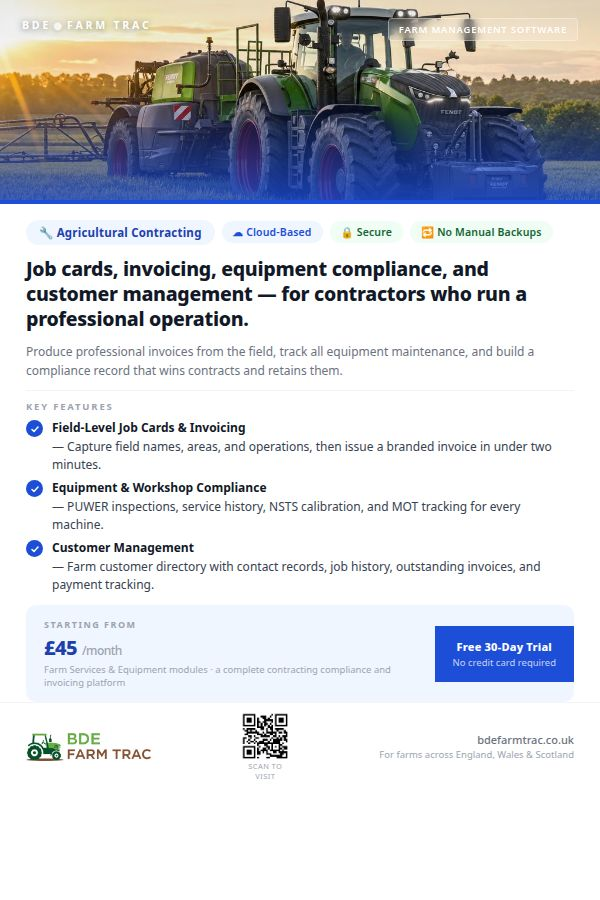
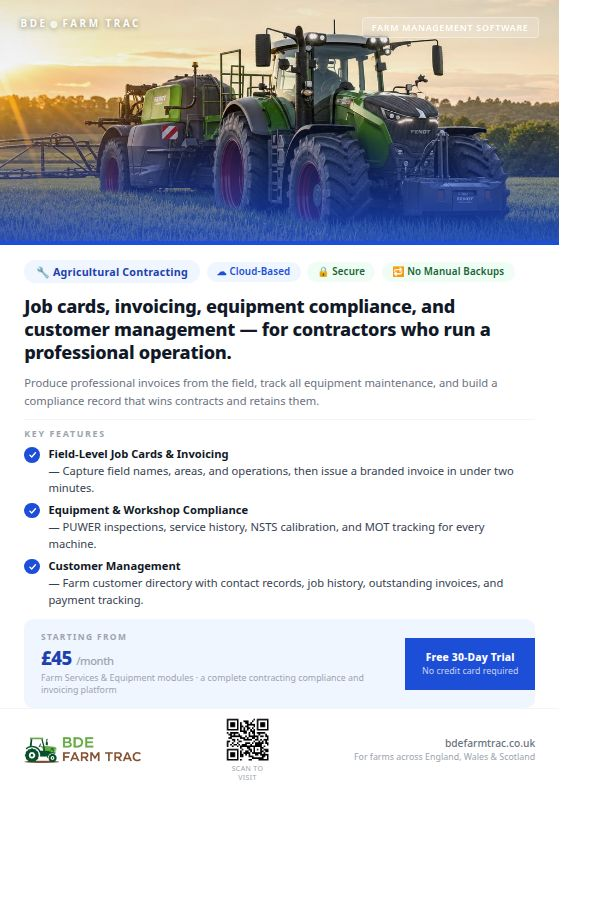
Update v2 leaflet content and associated screenshots
Replit-Commit-Author: Agent

diff --git a/artifacts/website/public/leaflets/arable-v2.html b/artifacts/website/public/leaflets/arable-v2.html
@@ -5,9 +5,9 @@
     <meta name="viewport" content="width=600">
     <style>
     *{box-sizing:border-box;margin:0;padding:0}
-    html{width:600px;height:210mm;overflow:hidden}body{width:600px;height:100%;display:flex;flex-direction:column;overflow:hidden;background:#fff;font-family:-apple-system,'Helvetica Neue',Arial,sans-serif;-webkit-font-smoothing:antialiased}
-    .hero{position:relative;width:600px;height:275px;overflow:hidden}
-    .hero img{width:100%;height:100%;object-fit:cover;object-position:center}
+    html{width:148mm;height:210mm;overflow:hidden}body{width:600px;height:851px;zoom:0.9323;overflow:hidden;display:flex;flex-direction:column;margin:0;padding:0}
+    .hero{position:relative;width:600px;flex:1;min-height:200px;overflow:hidden}
+    .hero img{width:100%;height:100%;object-fit:cover;object-position:center;position:absolute;inset:0}
     .hero-grad{position:absolute;inset:0;background:linear-gradient(to bottom,rgba(0,0,0,.08) 0%,rgba(0,0,0,.02) 45%,#92400ECC 100%)}
     .wordmark{position:absolute;top:18px;left:22px;color:#fff;font-size:10.5px;font-weight:700;letter-spacing:2.8px;text-transform:uppercase;text-shadow:0 1px 6px rgba(0,0,0,.5)}
     .wordmark .dot{opacity:.55;font-weight:300;margin:0 2px}
@@ -32,7 +32,7 @@
     .pricing-trial{background:#92400E;padding:13px 18px;text-align:center;min-width:130px}
     .pricing-trial-head{font-size:11px;font-weight:800;color:#fff;letter-spacing:.2px;margin-bottom:2px}
     .pricing-trial-sub{font-size:9.5px;color:rgba(255,255,255,.75)}
-    .footer{margin-top:auto;border-top:1px solid #F3F4F6;padding:9px 26px 12px;display:flex;align-items:center;justify-content:space-between}
+    .footer{margin-top:0;border-top:1px solid #F3F4F6;padding:9px 26px 12px;display:flex;align-items:center;justify-content:space-between}
     .footer-logo{font-size:10.5px;font-weight:800;color:#2D6A2E;letter-spacing:1.5px;text-transform:uppercase}
     .footer-right{text-align:right}
     .footer-url{font-size:11px;color:#6B7280;font-weight:500}

diff --git a/artifacts/website/public/leaflets/beef-dairy-v2.html b/artifacts/website/public/leaflets/beef-dairy-v2.html
@@ -5,9 +5,9 @@
     <meta name="viewport" content="width=600">
     <style>
     *{box-sizing:border-box;margin:0;padding:0}
-    html{width:600px;height:210mm;overflow:hidden}body{width:600px;height:100%;display:flex;flex-direction:column;overflow:hidden;background:#fff;font-family:-apple-system,'Helvetica Neue',Arial,sans-serif;-webkit-font-smoothing:antialiased}
-    .hero{position:relative;width:600px;height:275px;overflow:hidden}
-    .hero img{width:100%;height:100%;object-fit:cover;object-position:center}
+    html{width:148mm;height:210mm;overflow:hidden}body{width:600px;height:851px;zoom:0.9323;overflow:hidden;display:flex;flex-direction:column;margin:0;padding:0}
+    .hero{position:relative;width:600px;flex:1;min-height:200px;overflow:hidden}
+    .hero img{width:100%;height:100%;object-fit:cover;object-position:center;position:absolute;inset:0}
     .hero-grad{position:absolute;inset:0;background:linear-gradient(to bottom,rgba(0,0,0,.08) 0%,rgba(0,0,0,.02) 45%,#B91C1CCC 100%)}
     .wordmark{position:absolute;top:18px;left:22px;color:#fff;font-size:10.5px;font-weight:700;letter-spacing:2.8px;text-transform:uppercase;text-shadow:0 1px 6px rgba(0,0,0,.5)}
     .wordmark .dot{opacity:.55;font-weight:300;margin:0 2px}
@@ -32,7 +32,7 @@
     .pricing-trial{background:#B91C1C;padding:13px 18px;text-align:center;min-width:130px}
     .pricing-trial-head{font-size:11px;font-weight:800;color:#fff;letter-spacing:.2px;margin-bottom:2px}
     .pricing-trial-sub{font-size:9.5px;color:rgba(255,255,255,.75)}
-    .footer{margin-top:auto;border-top:1px solid #F3F4F6;padding:9px 26px 12px;display:flex;align-items:center;justify-content:space-between}
+    .footer{margin-top:0;border-top:1px solid #F3F4F6;padding:9px 26px 12px;display:flex;align-items:center;justify-content:space-between}
     .footer-logo{font-size:10.5px;font-weight:800;color:#2D6A2E;letter-spacing:1.5px;text-transform:uppercase}
     .footer-right{text-align:right}
     .footer-url{font-size:11px;color:#6B7280;font-weight:500}

diff --git a/artifacts/website/public/leaflets/contracting-v2.html b/artifacts/website/public/leaflets/contracting-v2.html
@@ -5,9 +5,9 @@
     <meta name="viewport" content="width=600">
     <style>
     *{box-sizing:border-box;margin:0;padding:0}
-    html{width:600px;height:210mm;overflow:hidden}body{width:600px;height:100%;display:flex;flex-direction:column;overflow:hidden;background:#fff;font-family:-apple-system,'Helvetica Neue',Arial,sans-serif;-webkit-font-smoothing:antialiased}
-    .hero{position:relative;width:600px;height:275px;overflow:hidden}
-    .hero img{width:100%;height:100%;object-fit:cover;object-position:center}
+    html{width:148mm;height:210mm;overflow:hidden}body{width:600px;height:851px;zoom:0.9323;overflow:hidden;display:flex;flex-direction:column;margin:0;padding:0}
+    .hero{position:relative;width:600px;flex:1;min-height:200px;overflow:hidden}
+    .hero img{width:100%;height:100%;object-fit:cover;object-position:center;position:absolute;inset:0}
     .hero-grad{position:absolute;inset:0;background:linear-gradient(to bottom,rgba(0,0,0,.08) 0%,rgba(0,0,0,.02) 45%,#1D4ED8CC 100%)}
     .wordmark{position:absolute;top:18px;left:22px;color:#fff;font-size:10.5px;font-weight:700;letter-spacing:2.8px;text-transform:uppercase;text-shadow:0 1px 6px rgba(0,0,0,.5)}
     .wordmark .dot{opacity:.55;font-weight:300;margin:0 2px}
@@ -32,7 +32,7 @@
     .pricing-trial{background:#1D4ED8;padding:13px 18px;text-align:center;min-width:130px}
     .pricing-trial-head{font-size:11px;font-weight:800;color:#fff;letter-spacing:.2px;margin-bottom:2px}
     .pricing-trial-sub{font-size:9.5px;color:rgba(255,255,255,.75)}
-    .footer{margin-top:auto;border-top:1px solid #F3F4F6;padding:9px 26px 12px;display:flex;align-items:center;justify-content:space-between}
+    .footer{margin-top:0;border-top:1px solid #F3F4F6;padding:9px 26px 12px;display:flex;align-items:center;justify-content:space-between}
     .footer-logo{font-size:10.5px;font-weight:800;color:#2D6A2E;letter-spacing:1.5px;text-transform:uppercase}
     .footer-right{text-align:right}
     .footer-url{font-size:11px;color:#6B7280;font-weight:500}

diff --git a/artifacts/website/public/leaflets/mixed-v2.html b/artifacts/website/public/leaflets/mixed-v2.html
@@ -5,9 +5,9 @@
     <meta name="viewport" content="width=600">
     <style>
     *{box-sizing:border-box;margin:0;padding:0}
-    html{width:600px;height:210mm;overflow:hidden}body{width:600px;height:100%;display:flex;flex-direction:column;overflow:hidden;background:#fff;font-family:-apple-system,'Helvetica Neue',Arial,sans-serif;-webkit-font-smoothing:antialiased}
-    .hero{position:relative;width:600px;height:275px;overflow:hidden}
-    .hero img{width:100%;height:100%;object-fit:cover;object-position:center}
+    html{width:148mm;height:210mm;overflow:hidden}body{width:600px;height:851px;zoom:0.9323;overflow:hidden;display:flex;flex-direction:column;margin:0;padding:0}
+    .hero{position:relative;width:600px;flex:1;min-height:200px;overflow:hidden}
+    .hero img{width:100%;height:100%;object-fit:cover;object-position:center;position:absolute;inset:0}
     .hero-grad{position:absolute;inset:0;background:linear-gradient(to bottom,rgba(0,0,0,.08) 0%,rgba(0,0,0,.02) 45%,#2D6A2ECC 100%)}
     .wordmark{position:absolute;top:18px;left:22px;color:#fff;font-size:10.5px;font-weight:700;letter-spacing:2.8px;text-transform:uppercase;text-shadow:0 1px 6px rgba(0,0,0,.5)}
     .wordmark .dot{opacity:.55;font-weight:300;margin:0 2px}
@@ -32,7 +32,7 @@
     .pricing-trial{background:#2D6A2E;padding:13px 18px;text-align:center;min-width:130px}
     .pricing-trial-head{font-size:11px;font-weight:800;color:#fff;letter-spacing:.2px;margin-bottom:2px}
     .pricing-trial-sub{font-size:9.5px;color:rgba(255,255,255,.75)}
-    .footer{margin-top:auto;border-top:1px solid #F3F4F6;padding:9px 26px 12px;display:flex;align-items:center;justify-content:space-between}
+    .footer{margin-top:0;border-top:1px solid #F3F4F6;padding:9px 26px 12px;display:flex;align-items:center;justify-content:space-between}
     .footer-logo{font-size:10.5px;font-weight:800;color:#2D6A2E;letter-spacing:1.5px;text-transform:uppercase}
     .footer-right{text-align:right}
     .footer-url{font-size:11px;color:#6B7280;font-weight:500}

diff --git a/artifacts/website/public/leaflets/sheep-goat-v2.html b/artifacts/website/public/leaflets/sheep-goat-v2.html
@@ -5,9 +5,9 @@
     <meta name="viewport" content="width=600">
     <style>
     *{box-sizing:border-box;margin:0;padding:0}
-    html{width:600px;height:210mm;overflow:hidden}body{width:600px;height:100%;display:flex;flex-direction:column;overflow:hidden;background:#fff;font-family:-apple-system,'Helvetica Neue',Arial,sans-serif;-webkit-font-smoothing:antialiased}
-    .hero{position:relative;width:600px;height:275px;overflow:hidden}
-    .hero img{width:100%;height:100%;object-fit:cover;object-position:center}
+    html{width:148mm;height:210mm;overflow:hidden}body{width:600px;height:851px;zoom:0.9323;overflow:hidden;display:flex;flex-direction:column;margin:0;padding:0}
+    .hero{position:relative;width:600px;flex:1;min-height:200px;overflow:hidden}
+    .hero img{width:100%;height:100%;object-fit:cover;object-position:center;position:absolute;inset:0}
     .hero-grad{position:absolute;inset:0;background:linear-gradient(to bottom,rgba(0,0,0,.08) 0%,rgba(0,0,0,.02) 45%,#B45309CC 100%)}
     .wordmark{position:absolute;top:18px;left:22px;color:#fff;font-size:10.5px;font-weight:700;letter-spacing:2.8px;text-transform:uppercase;text-shadow:0 1px 6px rgba(0,0,0,.5)}
     .wordmark .dot{opacity:.55;font-weight:300;margin:0 2px}
@@ -32,7 +32,7 @@
     .pricing-trial{background:#B45309;padding:13px 18px;text-align:center;min-width:130px}
     .pricing-trial-head{font-size:11px;font-weight:800;color:#fff;letter-spacing:.2px;margin-bottom:2px}
     .pricing-trial-sub{font-size:9.5px;color:rgba(255,255,255,.75)}
-    .footer{margin-top:auto;border-top:1px solid #F3F4F6;padding:9px 26px 12px;display:flex;align-items:center;justify-content:space-between}
+    .footer{margin-top:0;border-top:1px solid #F3F4F6;padding:9px 26px 12px;display:flex;align-items:center;justify-content:space-between}
     .footer-logo{font-size:10.5px;font-weight:800;color:#2D6A2E;letter-spacing:1.5px;text-transform:uppercase}
     .footer-right{text-align:right}
     .footer-url{font-size:11px;color:#6B7280;font-weight:500}

diff --git a/artifacts/website/public/leaflets/viticulture-v2.html b/artifacts/website/public/leaflets/viticulture-v2.html
@@ -5,9 +5,9 @@
     <meta name="viewport" content="width=600">
     <style>
     *{box-sizing:border-box;margin:0;padding:0}
-    html{width:600px;height:210mm;overflow:hidden}body{width:600px;height:100%;display:flex;flex-direction:column;overflow:hidden;background:#fff;font-family:-apple-system,'Helvetica Neue',Arial,sans-serif;-webkit-font-smoothing:antialiased}
-    .hero{position:relative;width:600px;height:275px;overflow:hidden}
-    .hero img{width:100%;height:100%;object-fit:cover;object-position:center}
+    html{width:148mm;height:210mm;overflow:hidden}body{width:600px;height:851px;zoom:0.9323;overflow:hidden;display:flex;flex-direction:column;margin:0;padding:0}
+    .hero{position:relative;width:600px;flex:1;min-height:200px;overflow:hidden}
+    .hero img{width:100%;height:100%;object-fit:cover;object-position:center;position:absolute;inset:0}
     .hero-grad{position:absolute;inset:0;background:linear-gradient(to bottom,rgba(0,0,0,.08) 0%,rgba(0,0,0,.02) 45%,#6D28D9CC 100%)}
     .wordmark{position:absolute;top:18px;left:22px;color:#fff;font-size:10.5px;font-weight:700;letter-spacing:2.8px;text-transform:uppercase;text-shadow:0 1px 6px rgba(0,0,0,.5)}
     .wordmark .dot{opacity:.55;font-weight:300;margin:0 2px}
@@ -32,7 +32,7 @@
     .pricing-trial{background:#6D28D9;padding:13px 18px;text-align:center;min-width:130px}
     .pricing-trial-head{font-size:11px;font-weight:800;color:#fff;letter-spacing:.2px;margin-bottom:2px}
     .pricing-trial-sub{font-size:9.5px;color:rgba(255,255,255,.75)}
-    .footer{margin-top:auto;border-top:1px solid #F3F4F6;padding:9px 26px 12px;display:flex;align-items:center;justify-content:space-between}
+    .footer{margin-top:0;border-top:1px solid #F3F4F6;padding:9px 26px 12px;display:flex;align-items:center;justify-content:space-between}
     .footer-logo{font-size:10.5px;font-weight:800;color:#2D6A2E;letter-spacing:1.5px;text-transform:uppercase}
     .footer-right{text-align:right}
     .footer-url{font-size:11px;color:#6B7280;font-weight:500}
